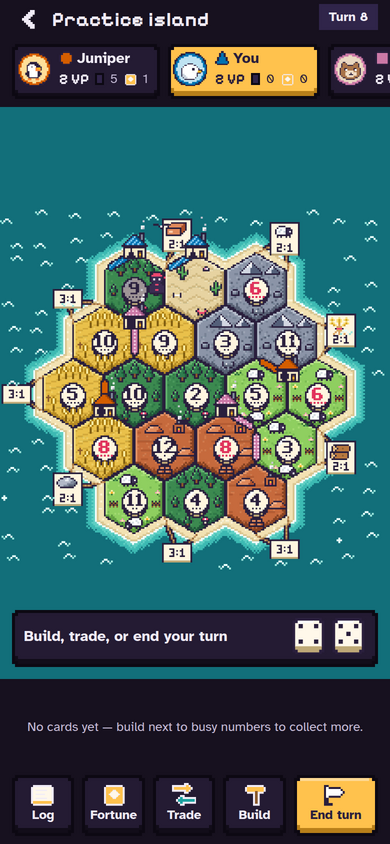
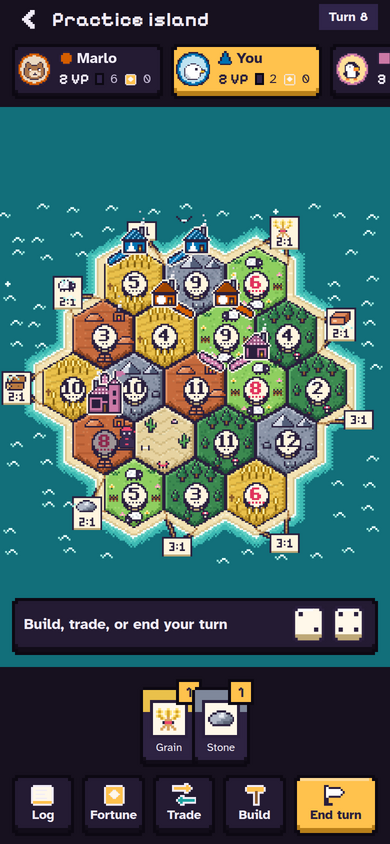
Make outposts and towns solid team color with a light halo
Walls take the seat color and roofs a darker shade with the seat pattern;
crests use white on dark seats and ink on light ones. Buildings and trails
get a 1-cell light rim so they stand out on every terrain.

Claude-Session: https://claude.ai/code/session_016HH5DNJbY2hJK7rrXbTtRY

diff --git a/apps/mobile/src/pixel/sprites.ts b/apps/mobile/src/pixel/sprites.ts
@@ -242,6 +242,8 @@ export interface SeatArt {
   mark: string;
   crest: 'circle' | 'triangle' | 'square' | 'diamond';
   pattern: 'solid' | 'stripes' | 'dots' | 'checks';
+  /** Crest color on the walls: white on dark seats, ink on light ones. */
+  crestInk?: string;
 }
 
 const CRESTS: Record<SeatArt['crest'], Sprite> = {
@@ -258,19 +260,19 @@ export function crestSprite(crest: SeatArt['crest']): Sprite {
 function roofColor(art: SeatArt, x: number, y: number): string {
   switch (art.pattern) {
     case 'stripes':
-      return (x + y) % 3 === 0 ? art.mark : art.roof;
+      return (x + y) % 3 === 0 ? art.mark : art.roofDark;
     case 'dots':
-      return x % 2 === 0 && y % 2 === 0 ? art.mark : art.roof;
+      return x % 2 === 0 && y % 2 === 0 ? art.mark : art.roofDark;
     case 'checks':
-      return (x + y) % 2 === 0 ? art.mark : art.roof;
+      return (x + y) % 2 === 0 ? art.mark : art.roofDark;
     default:
-      return art.roof;
+      return art.roofDark;
   }
 }
 
 function crest(cv: PixelCanvas, art: SeatArt, x: number, y: number): void {
   CRESTS[art.crest].forEach((row, j) => {
-    for (let i = 0; i < row.length; i++) if (row[i] === '#') cv.set(x + i, y + j, INK);
+    for (let i = 0; i < row.length; i++) if (row[i] === '#') cv.set(x + i, y + j, art.crestInk ?? INK);
   });
 }
 
@@ -285,12 +287,12 @@ export function drawOutpost(cv: PixelCanvas, art: SeatArt): void {
     const x1 = 8 + r;
     for (let x = x0; x <= x1; x++) {
       const edge = x === x0 || x === x1 || r === 0 || r === 6;
-      cv.set(x, y, edge ? INK : x === x1 - 1 ? art.roofDark : roofColor(art, x, y));
+      cv.set(x, y, edge ? INK : x === x0 + 1 ? art.roof : roofColor(art, x, y));
     }
   }
   // Walls
-  cv.box(1, 8, 13, 7, PAL.C, INK);
-  cv.rect(2, 13, 11, 1, '#E3D3A6');
+  cv.box(1, 8, 13, 7, art.roof, INK);
+  cv.rect(2, 13, 11, 1, art.roofDark);
   crest(cv, art, 3, 9);
   // Door
   cv.box(9, 10, 3, 5, PAL.b, INK);
@@ -305,7 +307,8 @@ export function drawTown(cv: PixelCanvas, art: SeatArt): void {
     const x1 = 15 + r;
     for (let x = x0; x <= x1; x++) cv.set(x, r, x === x0 || x === x1 || r === 0 ? INK : roofColor(art, x, r));
   }
-  cv.box(11, 3, 8, 17, PAL.C, INK);
+  cv.box(11, 3, 8, 17, art.roof, INK);
+  cv.rect(17, 4, 1, 15, art.roofDark);
   cv.box(14, 7, 2, 3, '#7BC6FF', INK);
   cv.box(14, 12, 2, 3, '#7BC6FF', INK);
   // Pennant pole (the flag itself is animated in the sky layer)
@@ -321,8 +324,8 @@ export function drawTown(cv: PixelCanvas, art: SeatArt): void {
       cv.set(x, y, Math.abs(i) === half || r === 5 || r === 0 ? INK : roofColor(art, x, y));
     }
   }
-  cv.box(0, 10, 12, 10, PAL.C, INK);
-  cv.rect(1, 18, 10, 1, '#E3D3A6');
+  cv.box(0, 10, 12, 10, art.roof, INK);
+  cv.rect(1, 18, 10, 1, art.roofDark);
   crest(cv, art, 2, 12);
   cv.box(8, 14, 3, 6, PAL.b, INK);
   cv.box(8, 11, 3, 2, '#7BC6FF', INK);

diff --git a/apps/mobile/src/board/Pieces.tsx b/apps/mobile/src/board/Pieces.tsx
@@ -9,9 +9,12 @@ import { crestSprite, drawOutpost, drawTown, INK, PAL, RAIDER, type SeatArt } fr
 import { seatStyles } from '../theme/tokens';
 import { CELL, hexCell, pieceOrigin, TOKEN_DY, vertexCell } from './raster';
 
+/** Light rim around pieces so team colors read against any terrain. */
+const HALO = '#FFF8EA';
+
 export function seatArt(seat: number): SeatArt {
   const s = seatStyles[seat];
-  return { roof: s.color, roofDark: s.dark, mark: s.mark, crest: s.crest, pattern: s.pattern };
+  return { roof: s.color, roofDark: s.dark, mark: s.mark, crest: s.crest, pattern: s.pattern, crestInk: s.ink };
 }
 
 interface Placement {
@@ -29,6 +32,7 @@ export function buildingPlacement(kind: 'outpost' | 'town', seat: number, vertex
   if (!base) {
     const cv = new PixelCanvas();
     (kind === 'outpost' ? drawOutpost : drawTown)(cv, seatArt(seat));
+    cv.halo(HALO);
     const a = canvasArt(cv, CELL);
     base = { art: a, left: a.x0, top: a.y0 };
     pieceCache.set(k, base);
@@ -65,6 +69,7 @@ export function trailPlacement(edge: number, seat: number): Placement {
       } else if (d <= 2.4) cv.set(x, y, INK);
     }
   }
+  cv.halo(HALO);
   const a = canvasArt(cv, CELL);
   p = { art: a, left: a.x0 * CELL, top: a.y0 * CELL };
   pieceCache.set(k, p);

diff --git a/apps/mobile/src/pixel/canvas.ts b/apps/mobile/src/pixel/canvas.ts
@@ -74,6 +74,17 @@ export class PixelCanvas {
     return x0 === Infinity ? null : { x0, y0, x1, y1 };
   }
 
+  /** Adds a 1-cell outer halo around everything drawn, so sprites pop off busy backgrounds. */
+  halo(color: string): void {
+    const add: [number, number][] = [];
+    this.cells.forEach((_c, k) => {
+      const y = Math.floor(k / 8192) - KEY_OFFSET;
+      const x = (k % 8192) - KEY_OFFSET;
+      for (const [dx, dy] of [[1, 0], [-1, 0], [0, 1], [0, -1]]) if (!this.cells.has(key(x + dx, y + dy))) add.push([x + dx, y + dy]);
+    });
+    for (const [x, y] of add) this.set(x, y, color);
+  }
+
   merge(other: PixelCanvas): void {
     other.cells.forEach((c, k) => this.cells.set(k, c));
   }

diff --git a/docs/DESIGN.md b/docs/DESIGN.md
@@ -132,7 +132,7 @@ Sound is opt-in (off by default).
 | Claypit | clay mounds, kiln, brick stack | kiln smoke |
 | Dunes | cacti, shell, bone, ripples | a crab scuttles back and forth |
 | Ocean | foam line, shallows | waves bob and drift, sparkles blink, a gull crosses |
-| Outposts / towns | crest on the wall, patterned roof | chimney smoke; towns fly a pennant in the seat color |
+| Outposts / towns | solid seat color (walls + darker patterned roof), crest on the wall, light halo rim | chimney smoke; towns fly a pennant in the seat color |
 
 ### Readability rules
 - Number discs are the brightest element on every tile: a cream face, a 1-cell ink rim,
